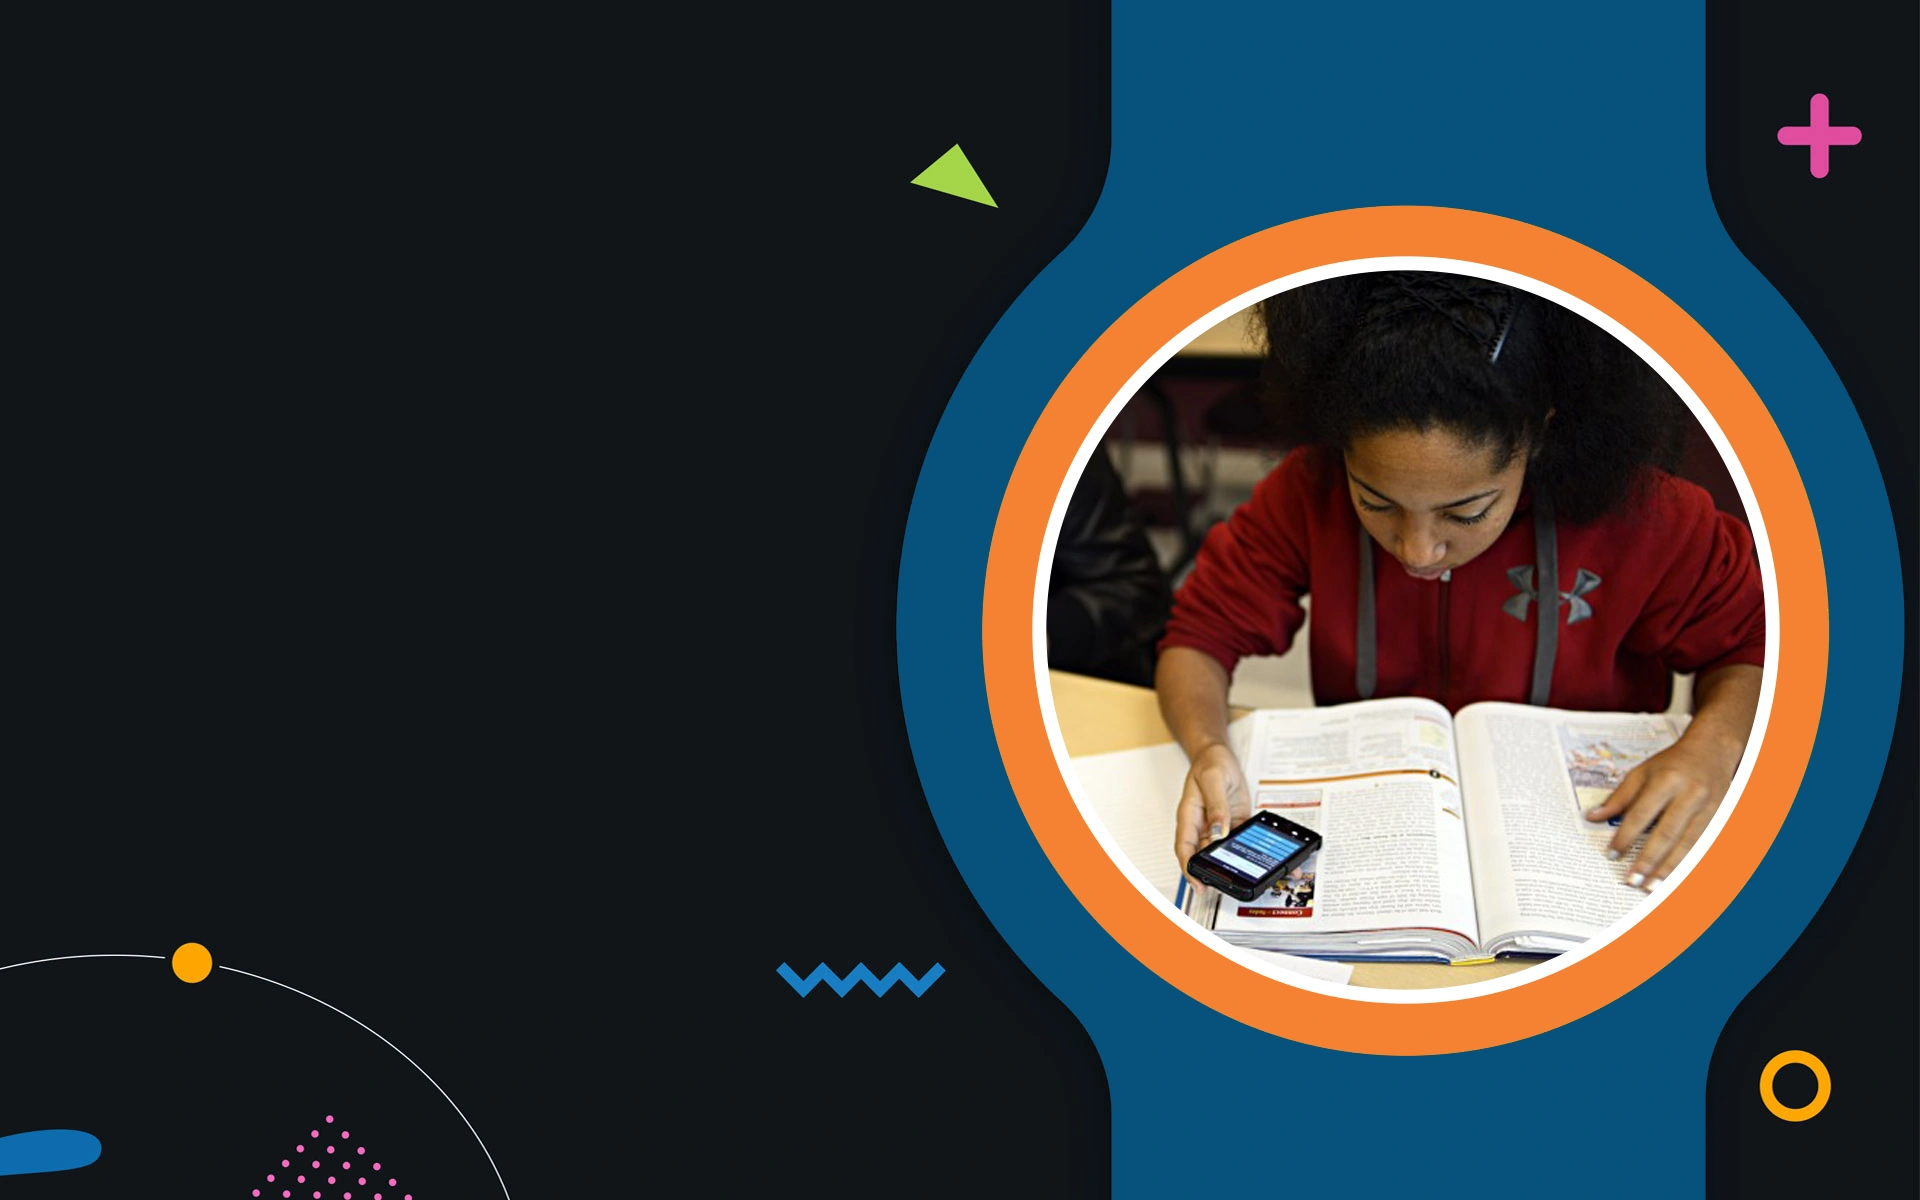
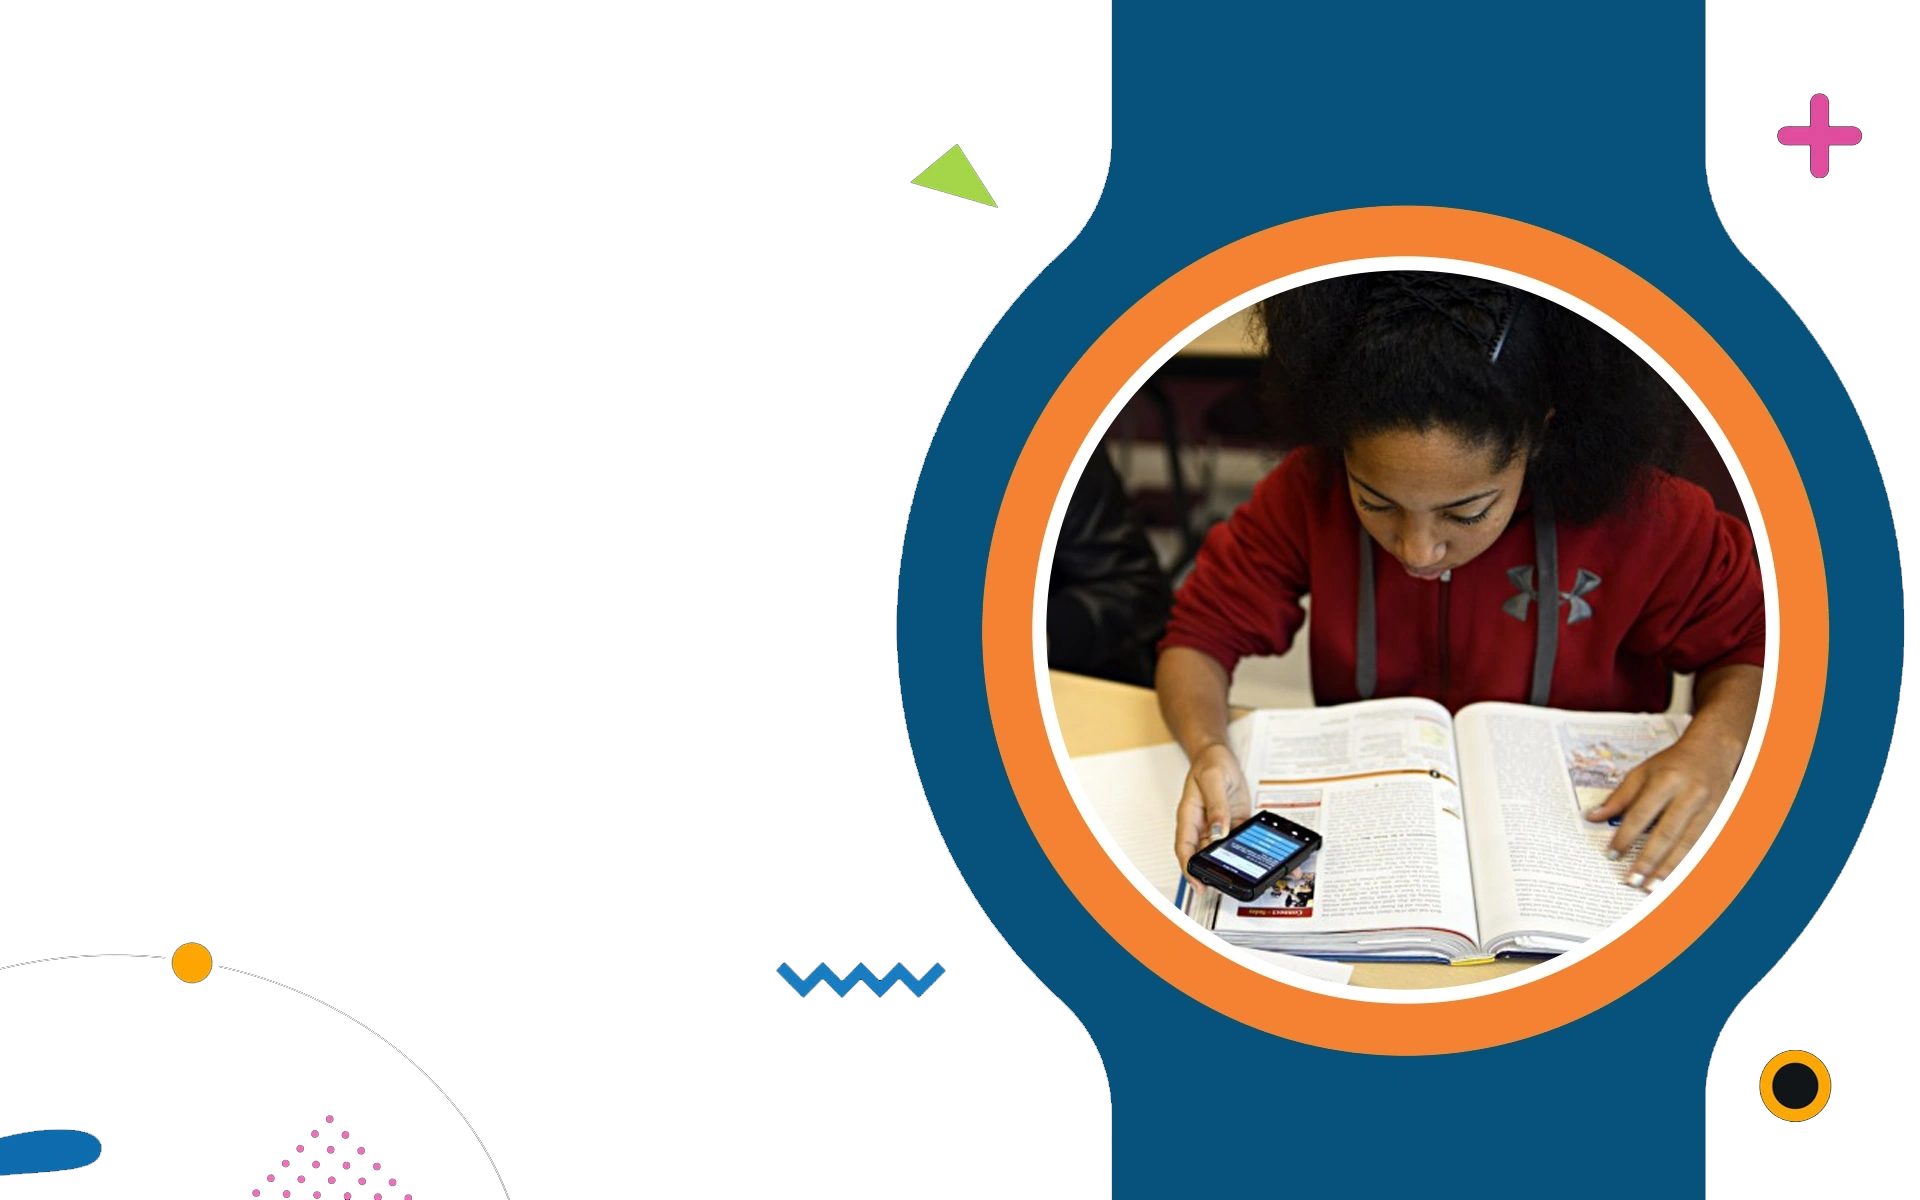
Start on the responsiveness

diff --git a/public/css/main.css b/public/css/main.css
@@ -8,12 +8,14 @@
 .landingPage {
   width: 100%;
   position: relative;
-  min-height: 900px;
+  min-height: 100vh;
+  height: 100%;
   overflow-y: hidden;
   background-size: cover;
   background-position: center center;
   padding-bottom: 8rem;
   background-image: url("../images/educationTwani.webp");
+  background-color: #80006e;
   display: flex;
   align-items: center;
 }
@@ -80,8 +82,8 @@
 }
 
 .section_gap {
-  padding-top: 5rem;
-  padding-bottom: 2rem;
+  padding-top: 10rem;
+  padding-bottom: 3rem;
 }
 
 .subjects .container {

diff --git a/public/css/responsive.css b/public/css/responsive.css
@@ -53,6 +53,7 @@ a {
   box-shadow: rgba(0, 0, 0, 0.15) 0px 15px 25px,
     rgba(0, 0, 0, 0.05) 0px 5px 10px;
   border: 1px solid rgba(var(--mainblack), 0.2);
+  border-radius: 50px;
 }
 
 .secondary_button {
@@ -66,6 +67,7 @@ a {
   background-color: rgb(var(--mainwhite));
   box-shadow: rgba(0, 0, 0, 0.35) 0px 5px 15px;
   border: 1px solid rgba(var(--mainblack), 0.2);
+  border-radius: 50px;
 }
 
 .flash-alerts {
